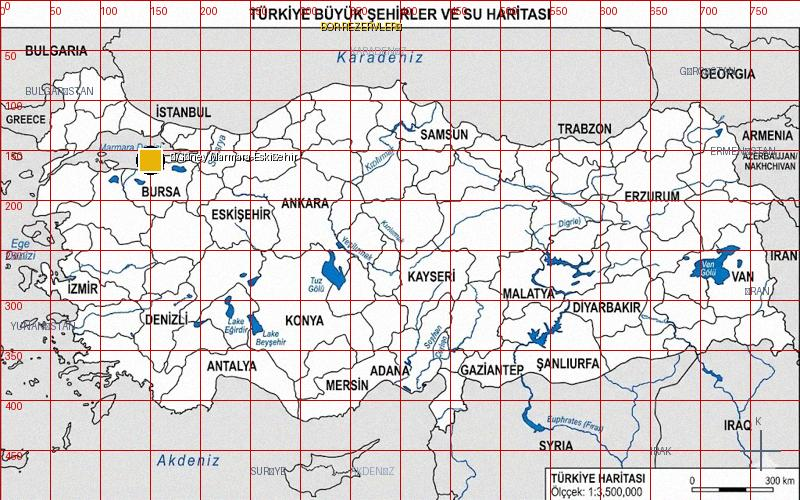
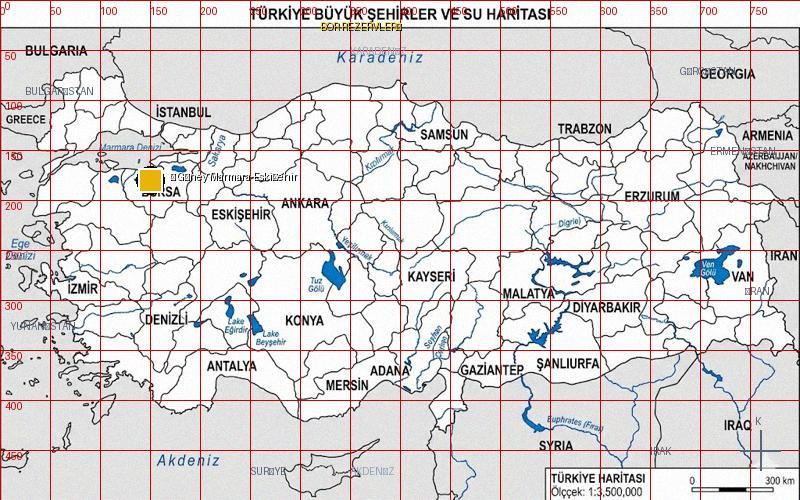
Auto-update maps: 2026-04-03 17:04:06

Changed region(s): [[0.1562, 0.27, 0.375, 0.39]]

diff --git a/download_assets.py b/download_assets.py
@@ -21,7 +21,7 @@ def download_kpss_images():
             "bg_color": (15, 23, 42)
         },
         "tr_delta.jpg": {
-            "label": "DELTA OVALARI", "marker": (400, 380), "info": "Çukurova Bölgesi", 
+            "label": "DELTA OVALARI", "marker": (430, 380), "info": "Çukurova Bölgesi", 
             "type": "circle", "color": (34, 197, 94),
             "bg_color": (10, 20, 15)
         },
@@ -31,12 +31,12 @@ def download_kpss_images():
             "bg_color": (25, 15, 15)
         },
         "tr_bor.jpg": {
-            "label": "BOR REZERVLERİ", "marker": (150, 160), "info": "Güney Marmara-Eskişehir", 
+            "label": "BOR REZERVLERİ", "marker": (150, 180), "info": "Güney Marmara-Eskişehir", 
             "type": "square", "color": (234, 179, 8),
             "bg_color": (20, 20, 30)
         },
         "tr_petrol.jpg": {
-            "label": "PETROL YATAKLARI", "marker": (650, 330), "info": "Batman ve Çevresi", 
+            "label": "PETROL YATAKLARI", "marker": (650, 300), "info": "Batman ve Çevresi", 
             "type": "diamond", "color": (71, 85, 105),
             "bg_color": (10, 10, 10)
         },
